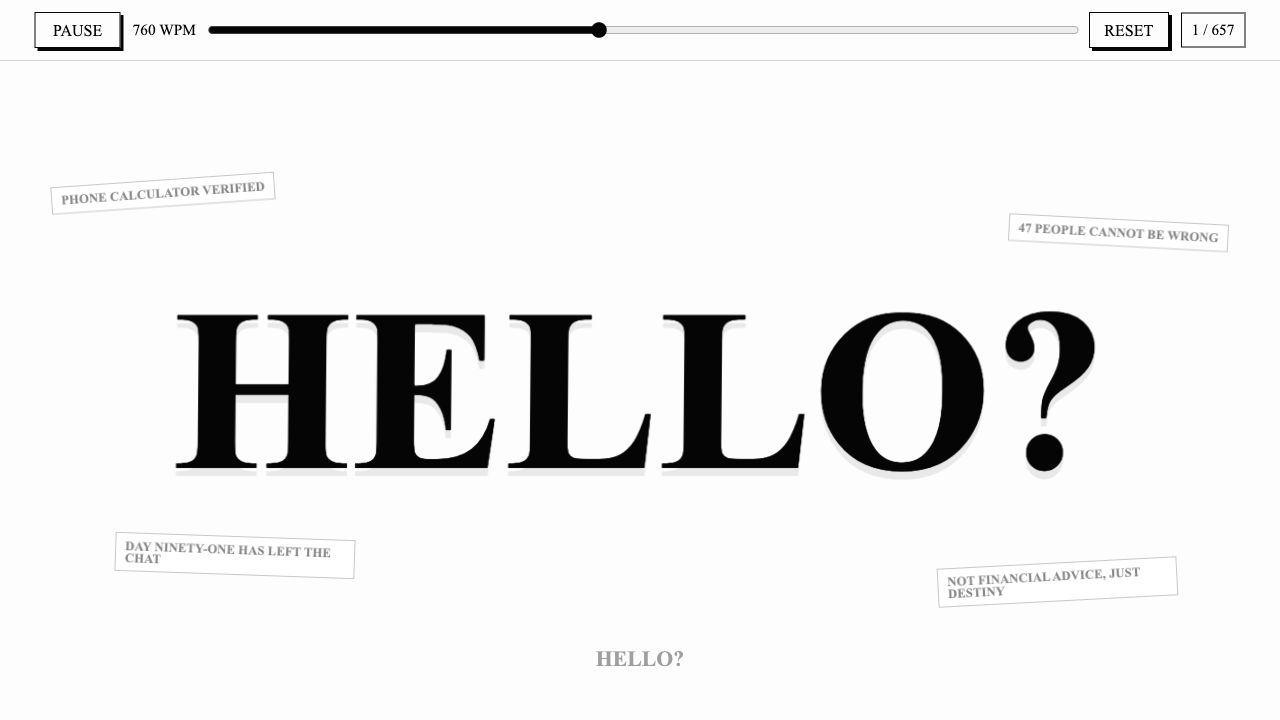
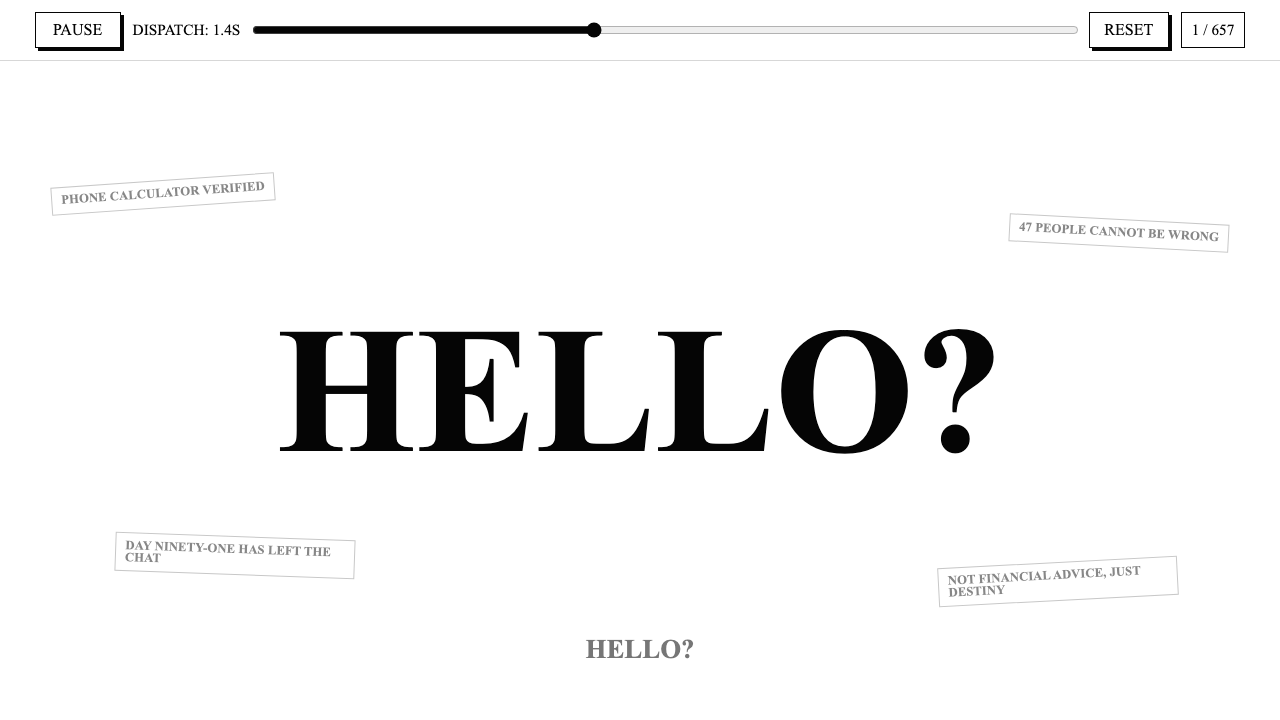
Make reader a calmer schizo dispatch

diff --git a/index.html b/index.html
@@ -3,7 +3,7 @@
   <head>
     <meta charset="utf-8" />
     <meta name="viewport" content="width=device-width, initial-scale=1" />
-    <title>HELLO? White Speed Reader</title>
+    <title>HELLO? White Schizo Dispatch</title>
     <style>
       :root {
         --paper: #ffffff;
@@ -133,7 +133,7 @@
         position: relative;
         width: 100%;
         max-width: 100vw;
-        height: clamp(160px, 32vh, 300px);
+        height: clamp(170px, 30vh, 280px);
         overflow: hidden;
         white-space: nowrap;
       }
@@ -191,14 +191,13 @@
       .token.active {
         max-width: 88vw;
         color: var(--ink);
-        font-size: clamp(82px, 18vw, 250px);
-        text-shadow: 0 8px 0 rgba(5, 5, 5, 0.08);
+        font-size: clamp(72px, 14vw, 190px);
+        text-shadow: none;
         transform: translate(-50%, -50%);
-        animation: twitch 120ms steps(2, end) 1;
       }
 
       .token.active.long {
-        font-size: clamp(54px, 11vw, 150px);
+        font-size: clamp(44px, 8vw, 112px);
         max-width: 92vw;
         white-space: normal;
         overflow-wrap: anywhere;
@@ -207,10 +206,10 @@
       .sentence {
         position: absolute;
         left: 50%;
-        bottom: clamp(30px, 7vh, 64px);
+        bottom: clamp(34px, 8vh, 74px);
         width: min(760px, calc(100vw - 24px));
-        color: rgba(5, 5, 5, 0.38);
-        font-size: clamp(14px, 1.7vw, 25px);
+        color: rgba(5, 5, 5, 0.55);
+        font-size: clamp(17px, 2.1vw, 31px);
         font-weight: 700;
         line-height: 1;
         text-align: center;
@@ -277,43 +276,7 @@
       }
 
       .flash {
-        position: fixed;
-        inset: 0;
-        z-index: 1;
-        pointer-events: none;
-        opacity: 0;
-        background: #f2f2f2;
-        mix-blend-mode: multiply;
-      }
-
-      .flash.on {
-        animation: flash 90ms steps(2, end) 1;
-      }
-
-      @keyframes twitch {
-        0%,
-        100% {
-          transform: translate(-50%, -50%) skewX(0deg);
-        }
-
-        40% {
-          transform: translate(calc(-50% - 6px), -50%) skewX(-4deg);
-        }
-
-        70% {
-          transform: translate(calc(-50% + 5px), -50%) skewX(3deg);
-        }
-      }
-
-      @keyframes flash {
-        0%,
-        100% {
-          opacity: 0;
-        }
-
-        50% {
-          opacity: 0.28;
-        }
+        display: none;
       }
 
       @media (max-width: 760px) {
@@ -354,11 +317,11 @@
 
         .token.active {
           max-width: 92vw;
-          font-size: clamp(64px, 23vw, 126px);
+          font-size: clamp(58px, 18vw, 104px);
         }
 
         .token.active.long {
-          font-size: clamp(42px, 15vw, 78px);
+          font-size: clamp(34px, 11vw, 62px);
         }
 
         .annotation {
@@ -396,14 +359,14 @@
     </style>
   </head>
   <body>
-    <main class="experience" aria-label="HELLO? white Times New Roman speed reader">
+    <main class="experience" aria-label="HELLO? white Times New Roman schizo dispatch">
       <div class="flash" id="flash"></div>
 
       <section class="controls" aria-label="Reader controls">
         <button id="playButton" type="button">PAUSE</button>
         <label class="speed">
-          <span class="label" id="speedLabel">280 WPM</span>
-          <input id="speed" type="range" min="120" max="900" step="10" value="280" aria-label="Words per minute" />
+          <span class="label" id="speedLabel">dispatch: 1.4s</span>
+          <input id="speed" type="range" min="700" max="2400" step="100" value="1400" aria-label="Dispatch interval" />
         </label>
         <button id="resetButton" type="button">RESET</button>
         <div class="counter" id="counter">1 / 657</div>
@@ -476,15 +439,11 @@
         return sentenceRanges.find((range) => wordIndex >= range.start && wordIndex <= range.end) || sentenceRanges[0];
       }
 
-      function isLoud(value) {
-        return /[A-Z]{4,}|[?!]|GENNY|SURELY|TEXTBOOK|VERTICAL|WAGMI|CHART|Disgusting/.test(value);
-      }
-
       function delayForWord(value) {
-        const wpm = Number(speed.value);
-        const punctuation = /[.!?]$/.test(value) ? 2.25 : /[,;:]$/.test(value) ? 1.45 : 1;
-        const longWord = value.length > 13 ? 1.28 : 1;
-        return (60000 / wpm) * punctuation * longWord;
+        const base = Number(speed.value);
+        const punctuation = /[.!?]$/.test(value) ? 1.75 : /[,;:]$/.test(value) ? 1.28 : 1;
+        const longWord = value.length > 13 ? 1.22 : 1;
+        return base * punctuation * longWord;
       }
 
       function renderStream() {
@@ -525,13 +484,7 @@
         renderNotes();
         sentence.textContent = sentenceForWord(index).text;
         counter.textContent = `${index + 1} / ${words.length}`;
-        speedLabel.textContent = `${speed.value} WPM`;
-
-        if (isLoud(value)) {
-          flash.classList.remove("on");
-          void flash.offsetWidth;
-          flash.classList.add("on");
-        }
+        speedLabel.textContent = `dispatch: ${(Number(speed.value) / 1000).toFixed(1)}s`;
       }
 
       function next() {
@@ -583,7 +536,7 @@
       resetButton.addEventListener("click", reset);
 
       speed.addEventListener("input", () => {
-        speedLabel.textContent = `${speed.value} WPM`;
+        speedLabel.textContent = `dispatch: ${(Number(speed.value) / 1000).toFixed(1)}s`;
         if (playing) {
           window.clearTimeout(timer);
           timer = window.setTimeout(next, delayForWord(words[index] || ""));

diff --git a/README.md b/README.md
@@ -1,6 +1,6 @@
-# HELLO? Speed Reader
+# HELLO? Schizo Dispatch
 
-Standalone white Times New Roman speed-reader artifact built for the supplied copypasta.
+Standalone white Times New Roman schizo dispatch artifact built for the supplied copypasta.
 
 Open `index.html` directly in a browser. The page is self-contained and does not need a dev server.
 
@@ -11,9 +11,9 @@ Preview images from verification:
 
 Controls:
 
-- The page starts on `HELLO?` and auto-runs through the full copypasta.
-- `PLAY` / `PAUSE` starts and stops the reader.
-- The range control adjusts reading speed from 120 to 900 WPM.
+- The page starts on `HELLO?` and advances through the full copypasta.
+- `PLAY` / `PAUSE` starts and stops the dispatch.
+- The range control adjusts the dispatch interval from 0.7s to 2.4s.
 - `RESET` returns to the first word: `HELLO?`.
 - Space toggles play/pause.
 - Left and right arrow keys step word-by-word while paused.

diff --git a/REFERENCE_AUDIT.md b/REFERENCE_AUDIT.md
@@ -4,7 +4,7 @@ Reference: https://appsinlaw.com/readquick-speed-reading-on-the-iphone/
 
 The useful design point is not "lots of text moving fast." It is RSVP speed reading: one word at a time, fixed in the same screen position, at a chosen WPM.
 
-Applied to this artifact:
+Initial application:
 
 - The reader shows only one active word in the center.
 - The page is 100vh and completely white.
@@ -12,3 +12,9 @@ Applied to this artifact:
 - Decoration is intentionally minimal and low-contrast.
 - The full copypasta is still loaded and played from `HELLO?` through `Disgusting.`
 - Controls are limited to play/pause, speed, reset, and progress.
+
+Current adjustment:
+
+- The page is now less training-tool and more white schizo dispatch.
+- The center text still changes through the copypasta, but the main word no longer twitches, flashes, or uses color animation.
+- The timing control is a dispatch interval, not a WPM training control.